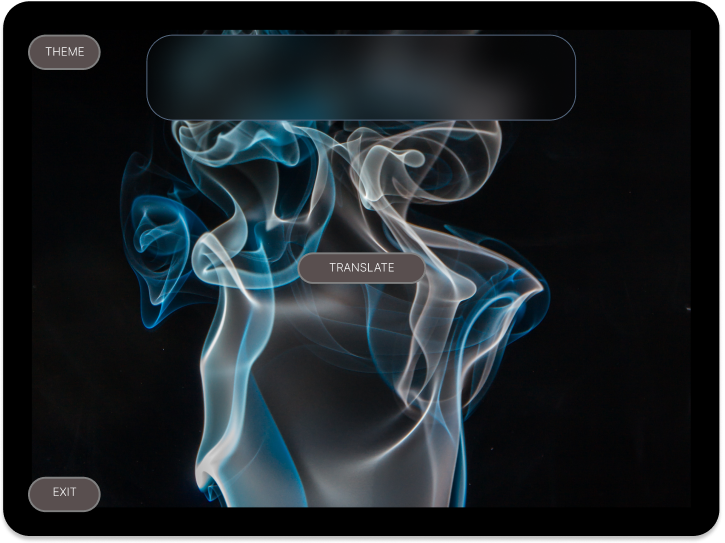
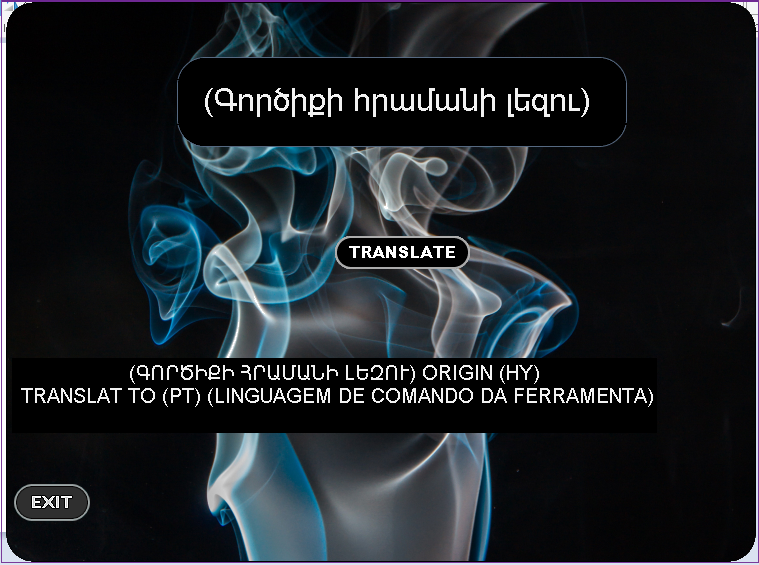
"First Commit"

Changed region(s): [[0.0, 0.0, 1.0, 1.0], [0.1517, 0.2947, 0.2124, 0.3536]]

diff --git a/main.py b/main.py
@@ -4,7 +4,7 @@ from time import sleep
 from googletrans import Translator
 
 app = Tk()
-app.overrideredirect(True)
+app.overrideredirect(False)
 app.wm_attributes('-topmost', False)
 app.wm_attributes('-disabled', False)
 app.wm_attributes('-transparentcolor', 'white')
@@ -14,16 +14,16 @@ app.geometry('756x560')
 
 msg = StringVar()
 
-
+# Quit Software
 def quitSoftware(event):
     sleep(0.2)
     app.destroy()
 
-
+# Button Translat
 def button_translat(event):
     translat(msg.get())
 
-
+# Api google
 def translat(txt):
 
     """Used version pip3 install googletrans==3.1.0a0"""
@@ -53,7 +53,6 @@ buttonTranslate = canvas.create_image(400, 250, image=buttonTranslateImg)
 canvas.tag_bind(buttonTranslate, '<Button-1>', button_translat)
 
 # Entry
-
 entryImg = ImageTk.PhotoImage(Image.open('img/Entry.png'))
 entryIm = canvas.create_image(400, 100, image=entryImg)
 entry = Entry(
